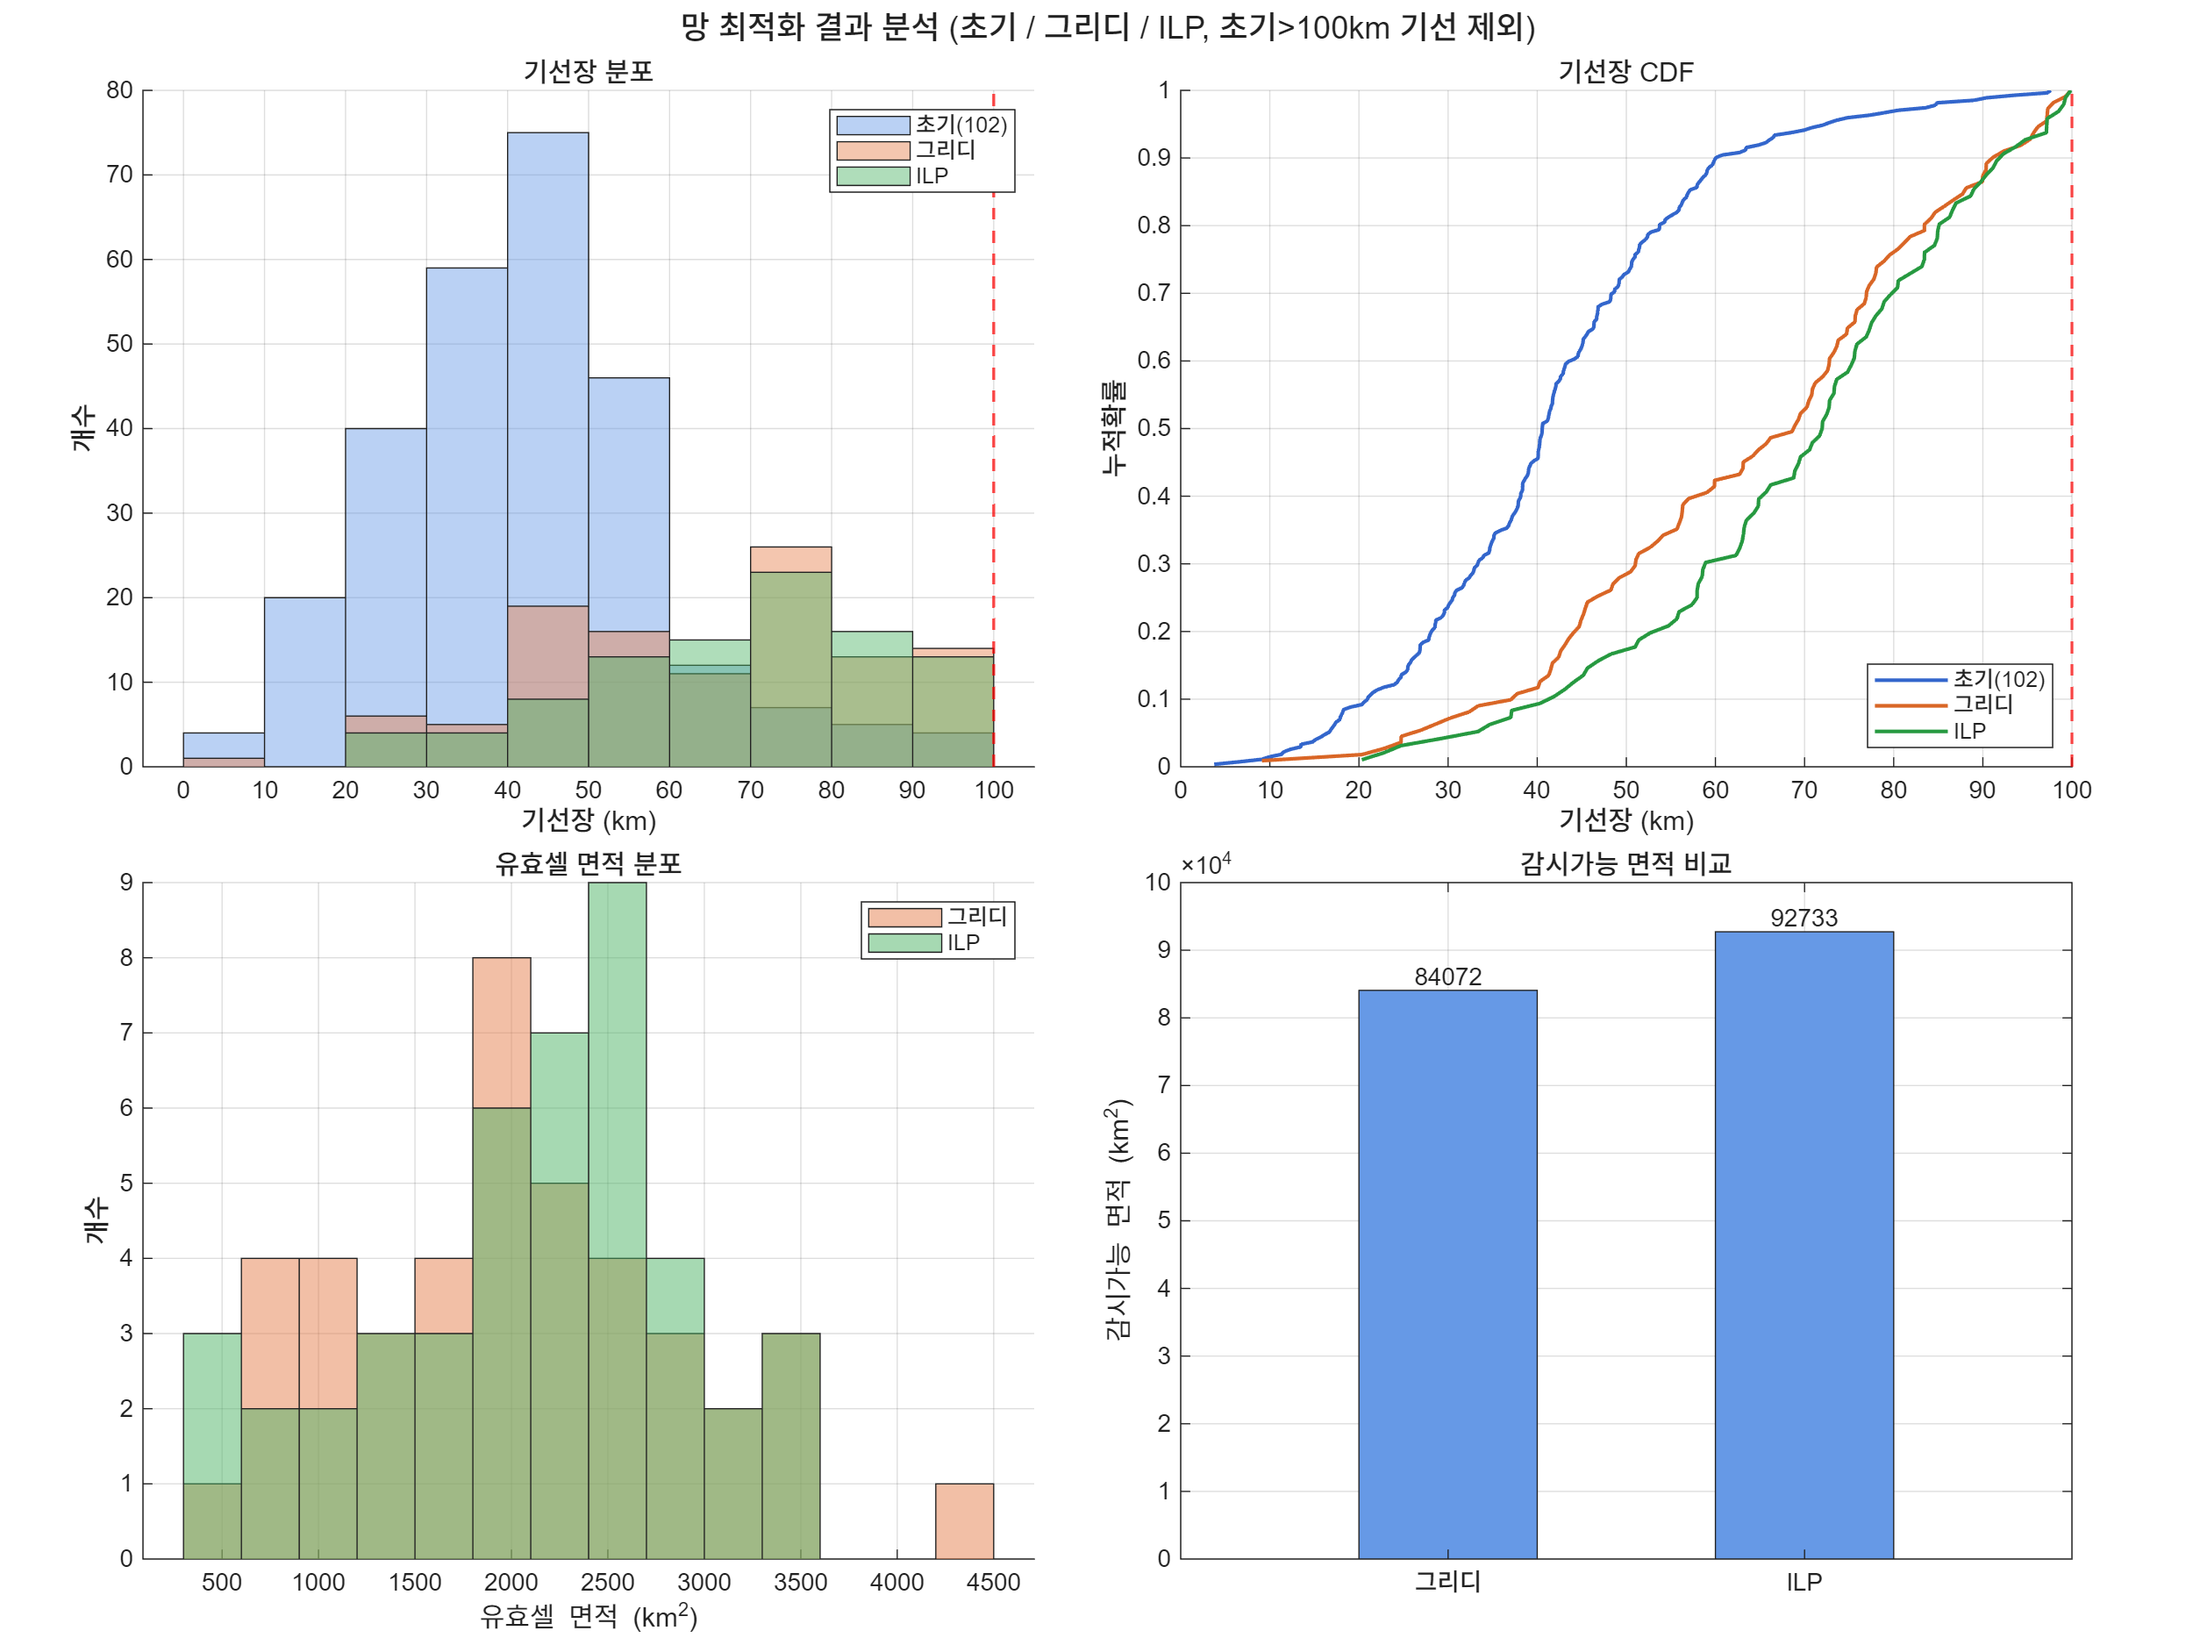
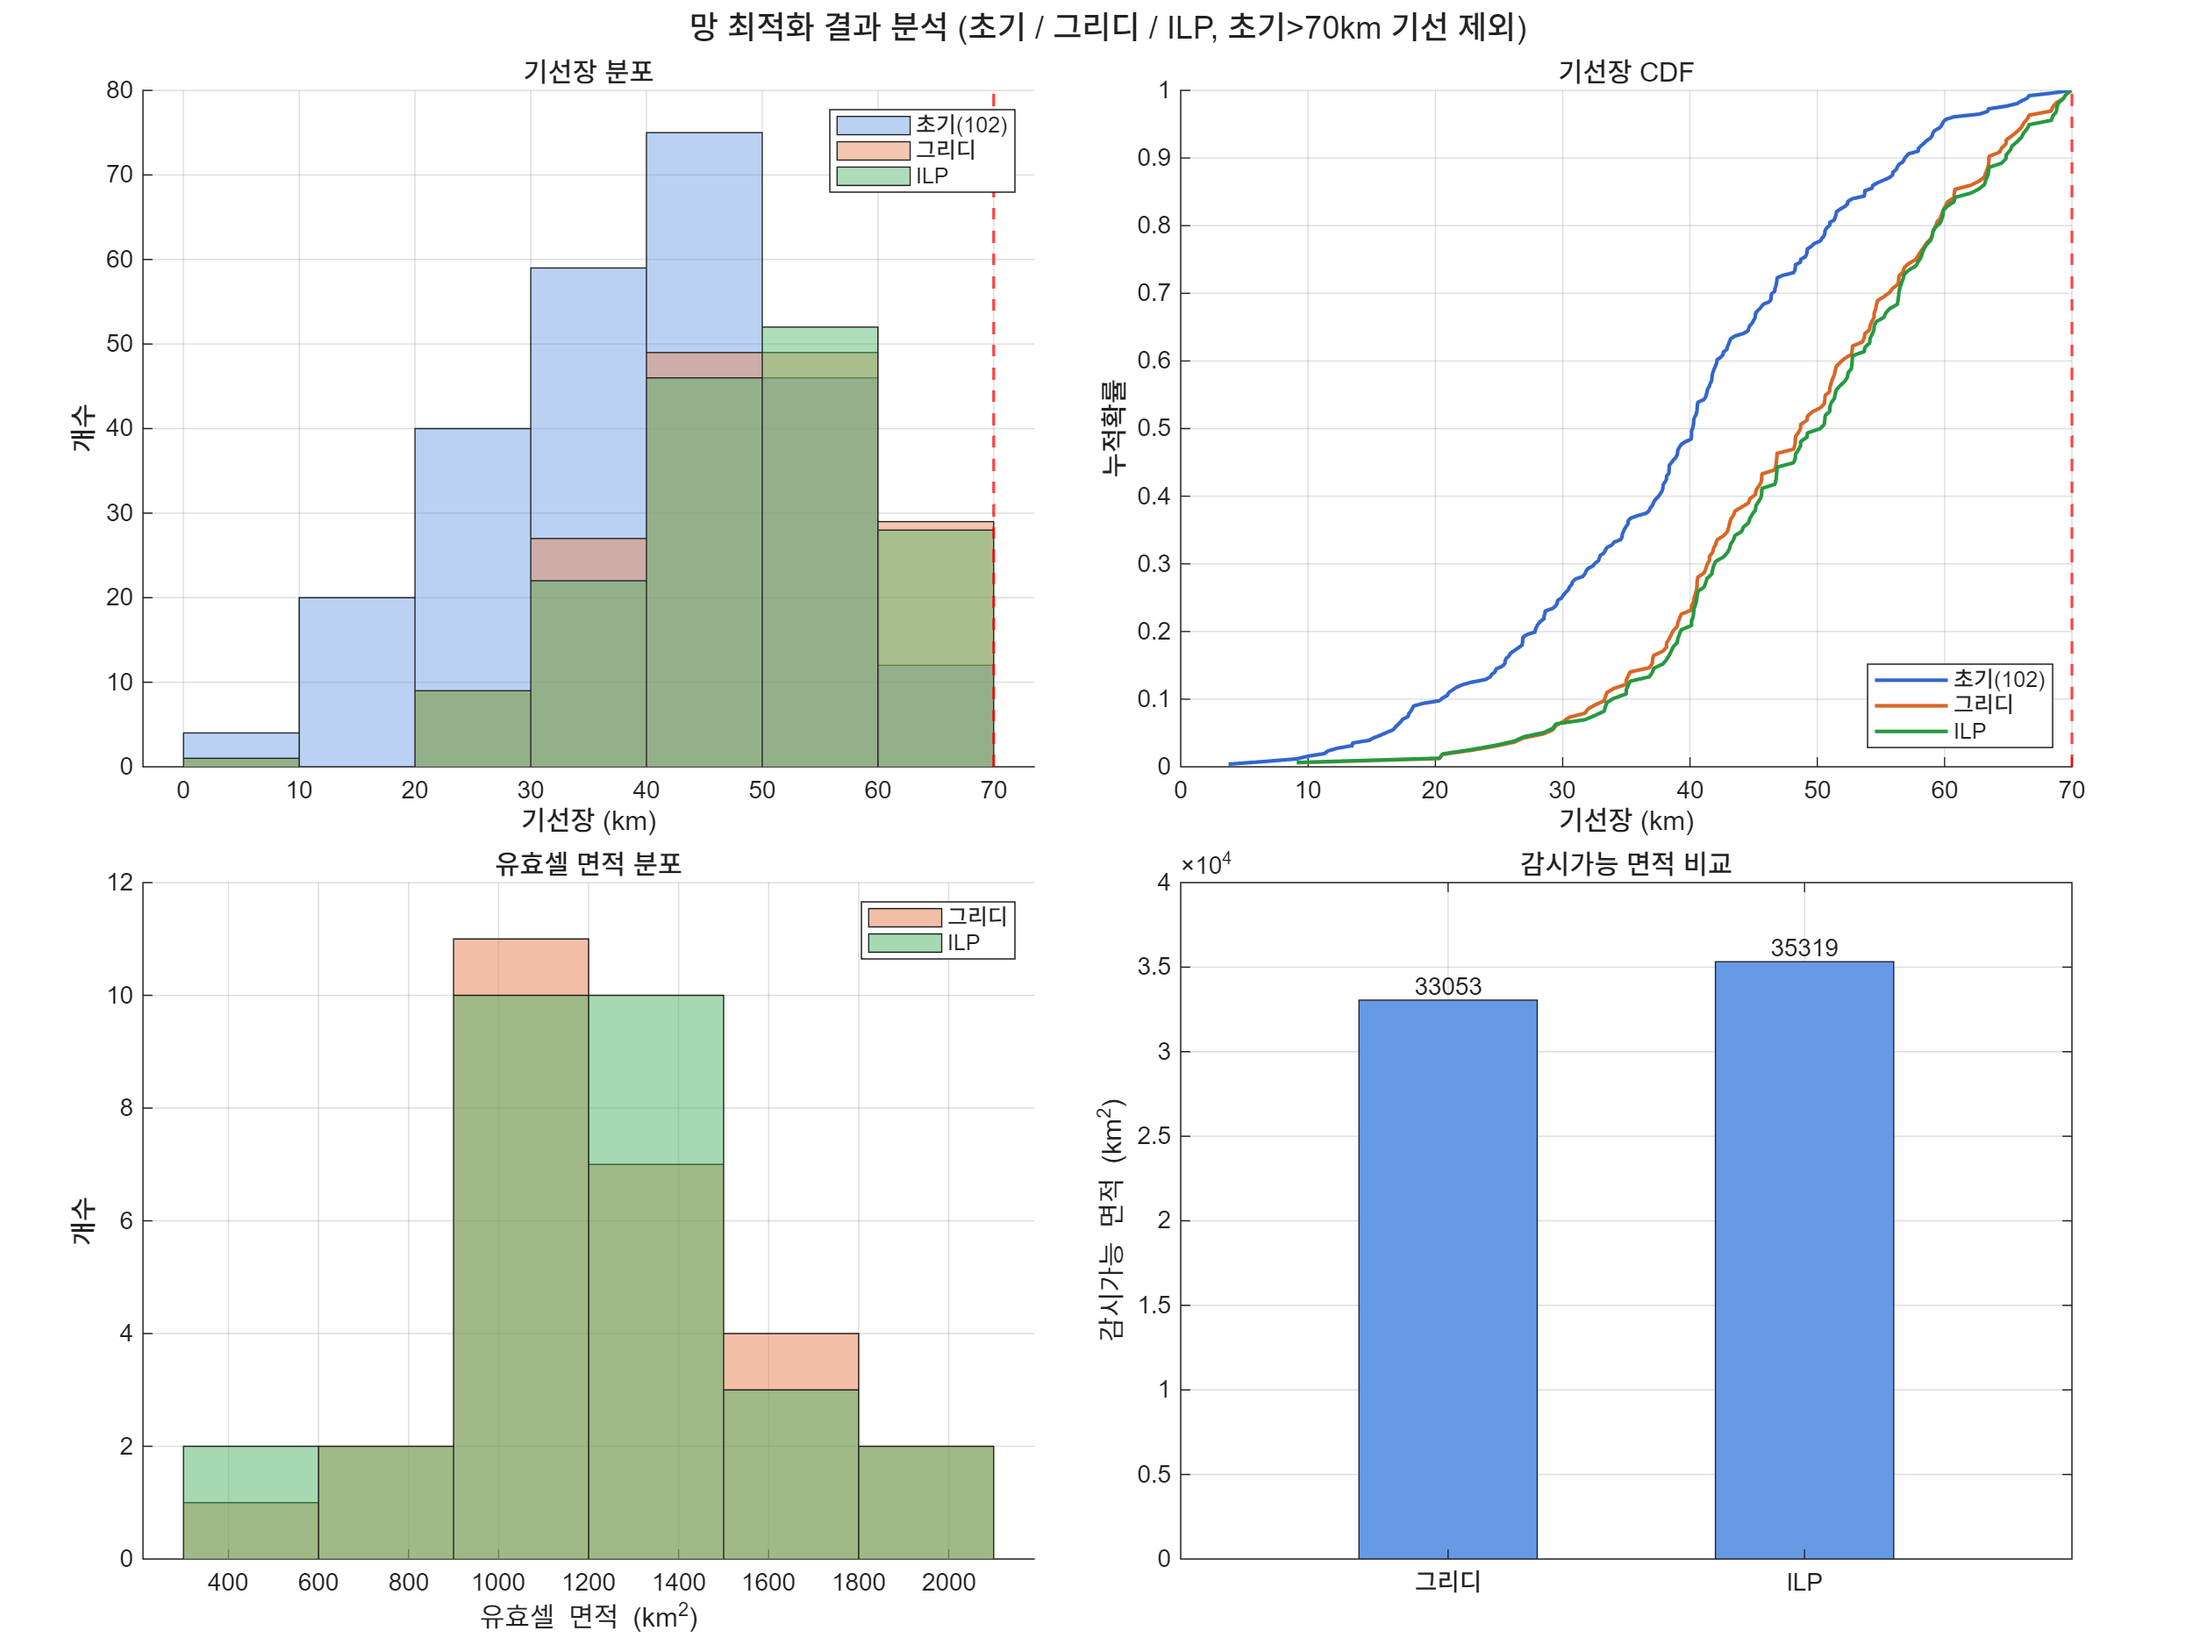
공식 기본값 전환: maxBaseKm 100 -> 70, QC cut-off 보류 (cfg.qcEnable 스위치)
- net_config: maxBaseKm=70 (사용자 지시 2026-07-27), qcEnable=false 신설 —
  QC는 추후 진행. true 복원 시 컷·A7·감시인정 제한 전부 복구.
- qc_rules: qcEnable 스위치 반영 (지표는 리포트용으로 계속 계산·보존)
- run_plot_qc_status: QC 비활성 시 지도 생략 + 기존 산출물 제거 (오독 방지)
- 공식 결과: ILP 기준국 69 / 감시국 33, 유효셀 29, 35,269 km2 (국토 35.2%).
  70_result.mat / assignment_ilp.csv / 70_station_list.xlsx / 01_망설계 figure 갱신.
  (100km QC 확정망 43/59 이력은 bf62001 및 100_result.mat 보존)

Claude-Session: https://claude.ai/code/session_01UYcRwiTz1XWkLPAKJQoUpf

diff --git a/2차/망최적화/net_config.m b/2차/망최적화/net_config.m
@@ -4,7 +4,13 @@ function cfg = net_config()
 %   조건을 바꿀 때는 여기 한 곳만 수정하면 모든 드라이버가 동일 조건으로 정렬된다.
 %   (plots/run_stats.m 은 결과 .mat 에 저장된 maxBaseKm 을 읽으므로 자동 반영)
 
-    cfg.maxBaseKm = 100;   % 신설 기선 최대 길이 [km] (초기망의 초과 기선은 grandfather 예외)
+    cfg.maxBaseKm = 70;    % 신설 기선 최대 길이 [km] (초기망의 초과 기선은 grandfather 예외)
+                           % 2026-07-27 사용자 지시로 공식 기본값 100 -> 70 변경.
+                           % (100km QC 확정망 43/59·93,163km2 는 커밋 bf62001 이력 보존)
+    cfg.qcEnable  = false; % QC cut-off 적용 여부. 70km 기본망은 QC 규칙과 비실현
+                           % (SLPS 탈락 BONH·YONK가 70km 기하의 구조적 필수국)이라
+                           % 사용자 결정으로 QC는 추후 진행 — 당분간 비활성.
+                           % true 로 되돌리면 아래 컷·A7·감시인정 제한이 전부 복원된다.
     cfg.nOuter    = 13;    % 최외곽 고정 노드 수 (볼록껍질 + 경계 근접 순 자동 보충)
     cfg.outerForce = "YODK";
     % ↑ 외곽 강제 보완국: 동해안 요철 보완용 YODK. 97국 시절엔 outer_ring(13)이

diff --git a/2차/망최적화/qc_rules.m b/2차/망최적화/qc_rules.m
@@ -69,6 +69,17 @@ function qc = qc_rules(T, cfg)
     qc.useA7 = isfield(cfg, 'qcScoreA7') && cfg.qcScoreA7;
     qc.monOK = ((a > 0) & (a >= thrMon)) | noQC;
 
+    % QC 전체 비활성 스위치 (cfg.qcEnable=false): 컷·A7·감시인정 제한을 모두 해제.
+    % 지표(avail/slps/score)는 리포트용으로 계속 계산·보존된다.
+    qc.enabled = ~isfield(cfg, 'qcEnable') || cfg.qcEnable;
+    if ~qc.enabled
+        qc.refOK = true(N,1);
+        qc.monOK = true(N,1);
+        qc.useA7 = false;
+        fprintf('[QC 규칙] 비활성 (cfg.qcEnable=false) — cut-off·A7·감시인정 제한 없음 (추후 진행 예정)\n');
+        return;
+    end
+
     fprintf('[QC 규칙/RsrchMt] %s & SLPS<%g, A7(평균 Score 제약)=%d\n', ...
         availDesc, cfg.qcMaxSLPS, qc.useA7);
     if any(noQC)

diff --git a/2차/망최적화/plots/run_plot_qc_status.m b/2차/망최적화/plots/run_plot_qc_status.m
@@ -31,6 +31,14 @@ isB = false(N,1); isB(R.boundarySpec) = true;
 [~, ~, ~, T] = load_stations();
 cfg = net_config();
 qc = qc_rules(T, cfg);
+if isfield(qc, 'enabled') && ~qc.enabled
+    % QC 비활성 상태에선 "cut-off 전환/외곽 예외" 분류가 성립하지 않음 — 지도 생략.
+    % (남아 있으면 QC 규칙망 결과로 오독될 수 있어 기존 산출물도 제거)
+    stale = fullfile(optDir, 'result_fig', '01_망설계', 'qc_station_status.png');
+    if isfile(stale); delete(stale); end
+    fprintf('QC 비활성(cfg.qcEnable=false) — 선별 상태 지도 생략 (qc_station_status.png 제거)\n');
+    return;
+end
 
 noQC = false(N,1);
 if isfield(qc, 'noQC'); noQC = qc.noQC; end        % 신설 QC 미평가국 (컷 면제)
